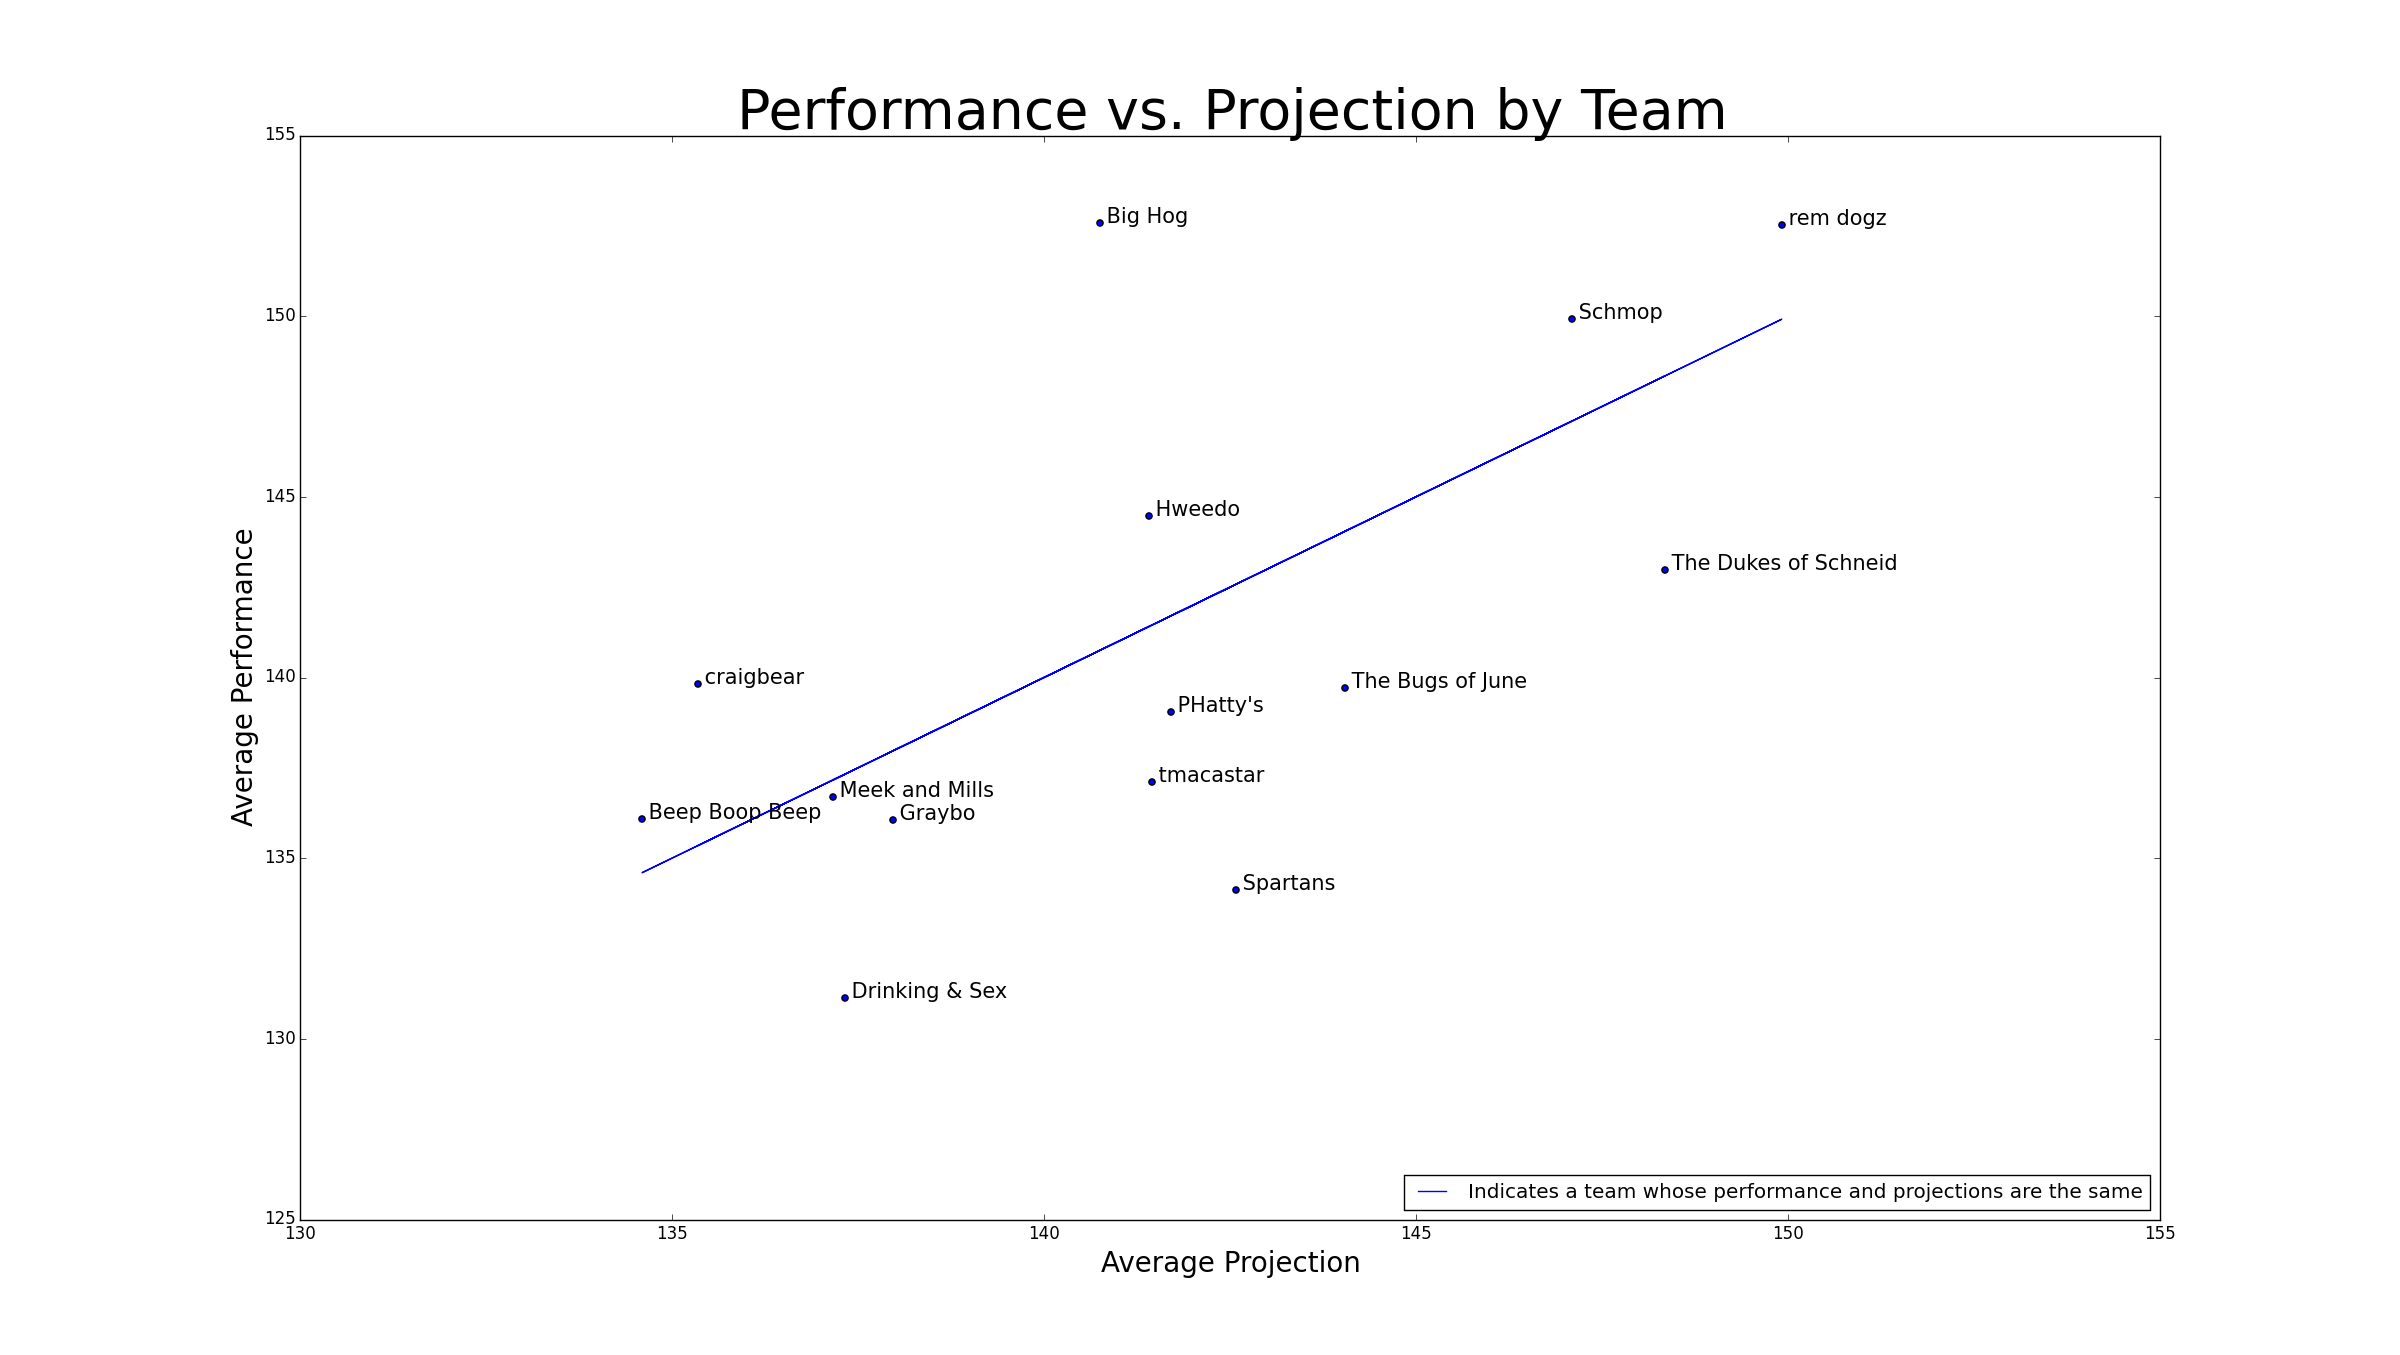
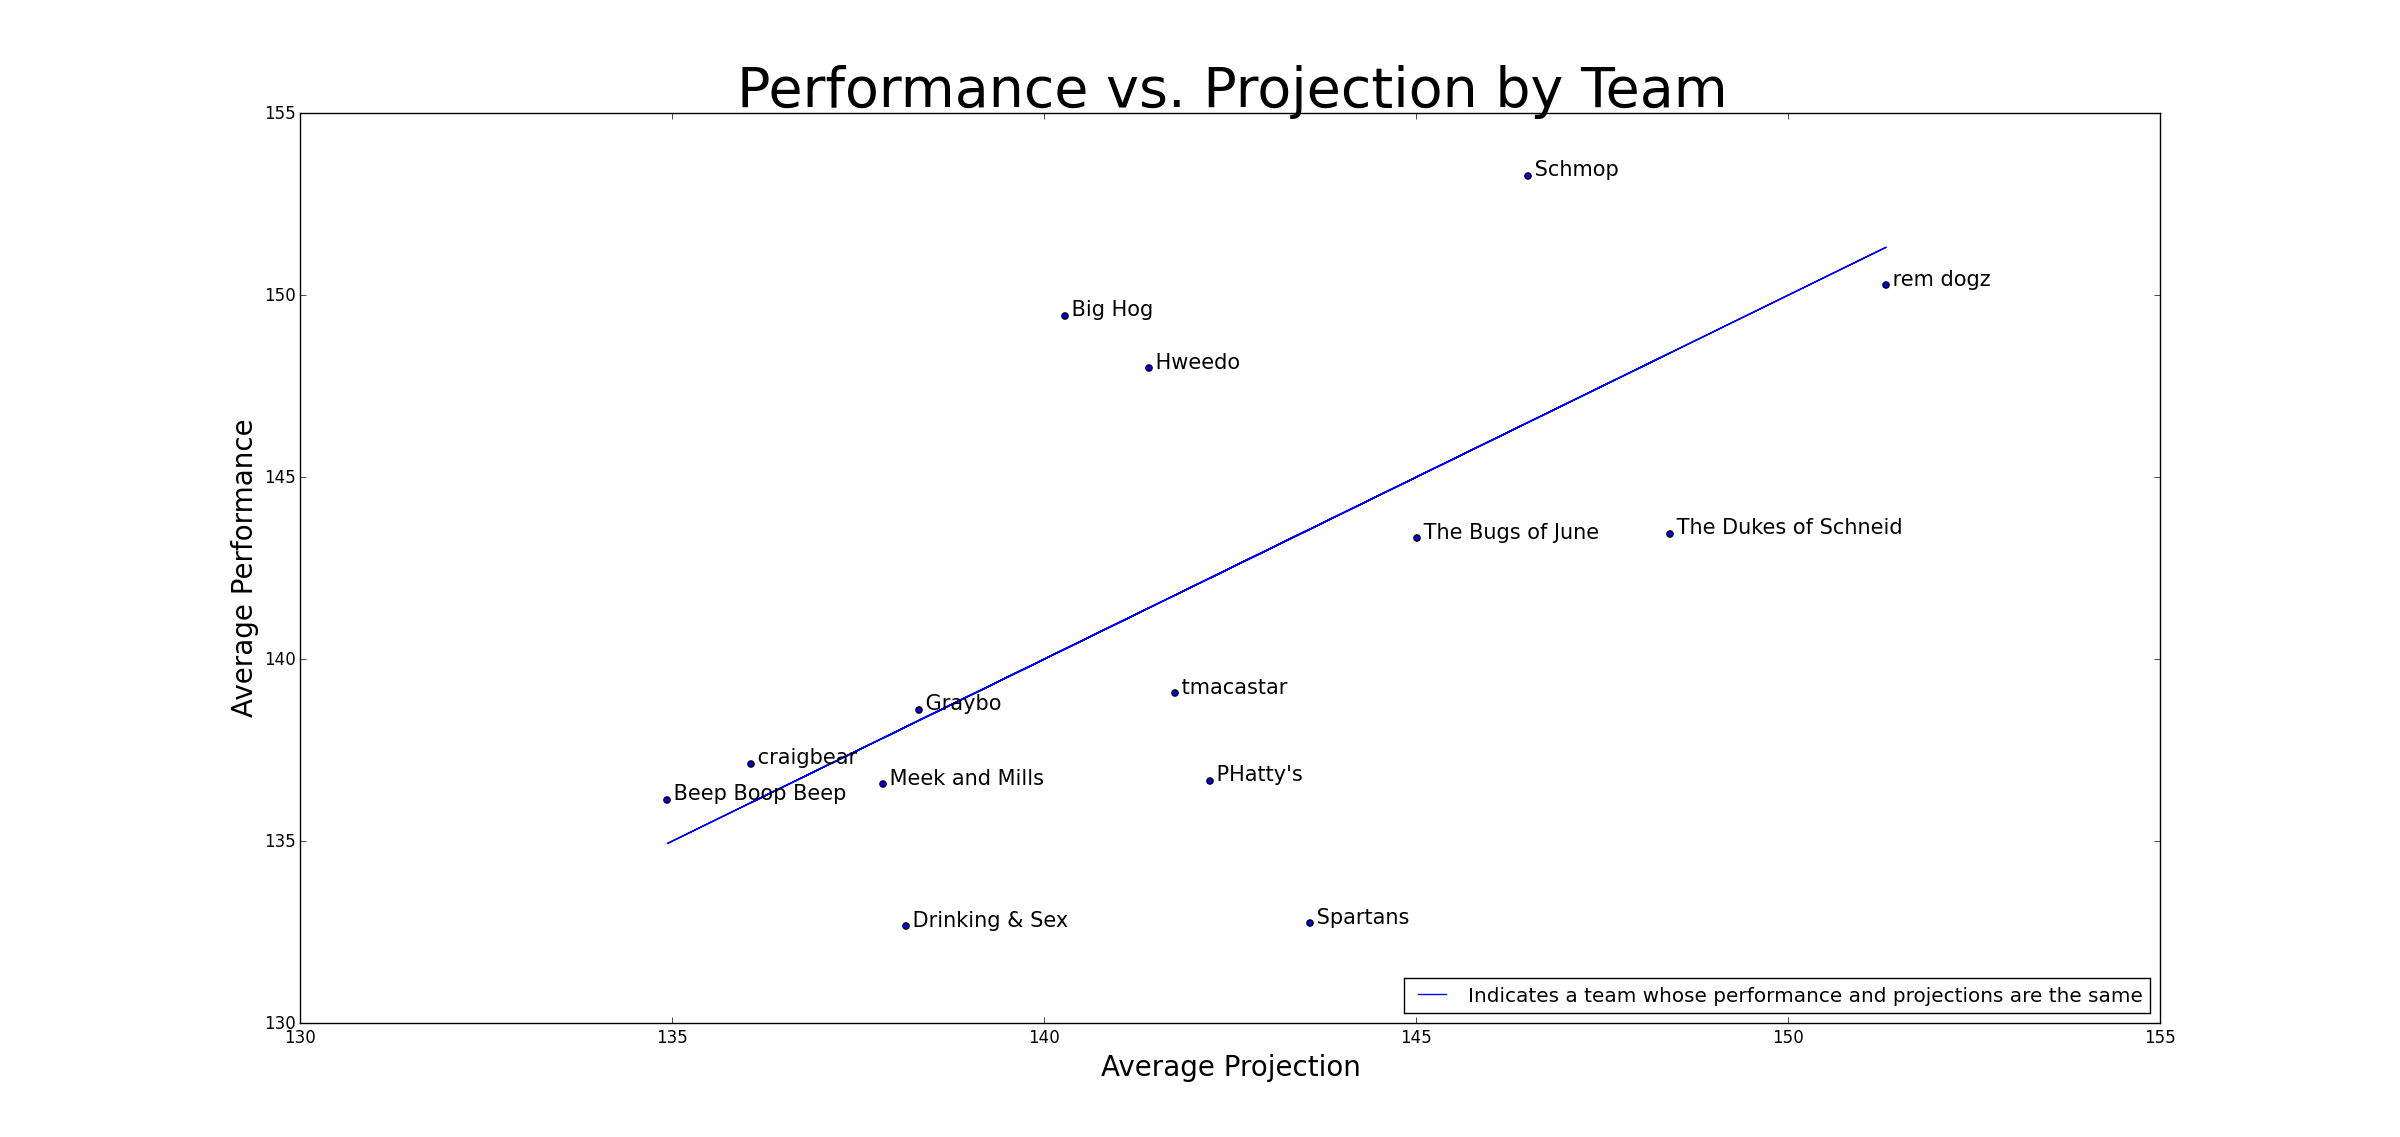
updates post week 12

diff --git a/main.py b/main.py
@@ -1,4 +1,4 @@
-# import create_graphics
+import create_graphics
 from load_data import dict_of_teams
 import TeamClass
 import beesh
